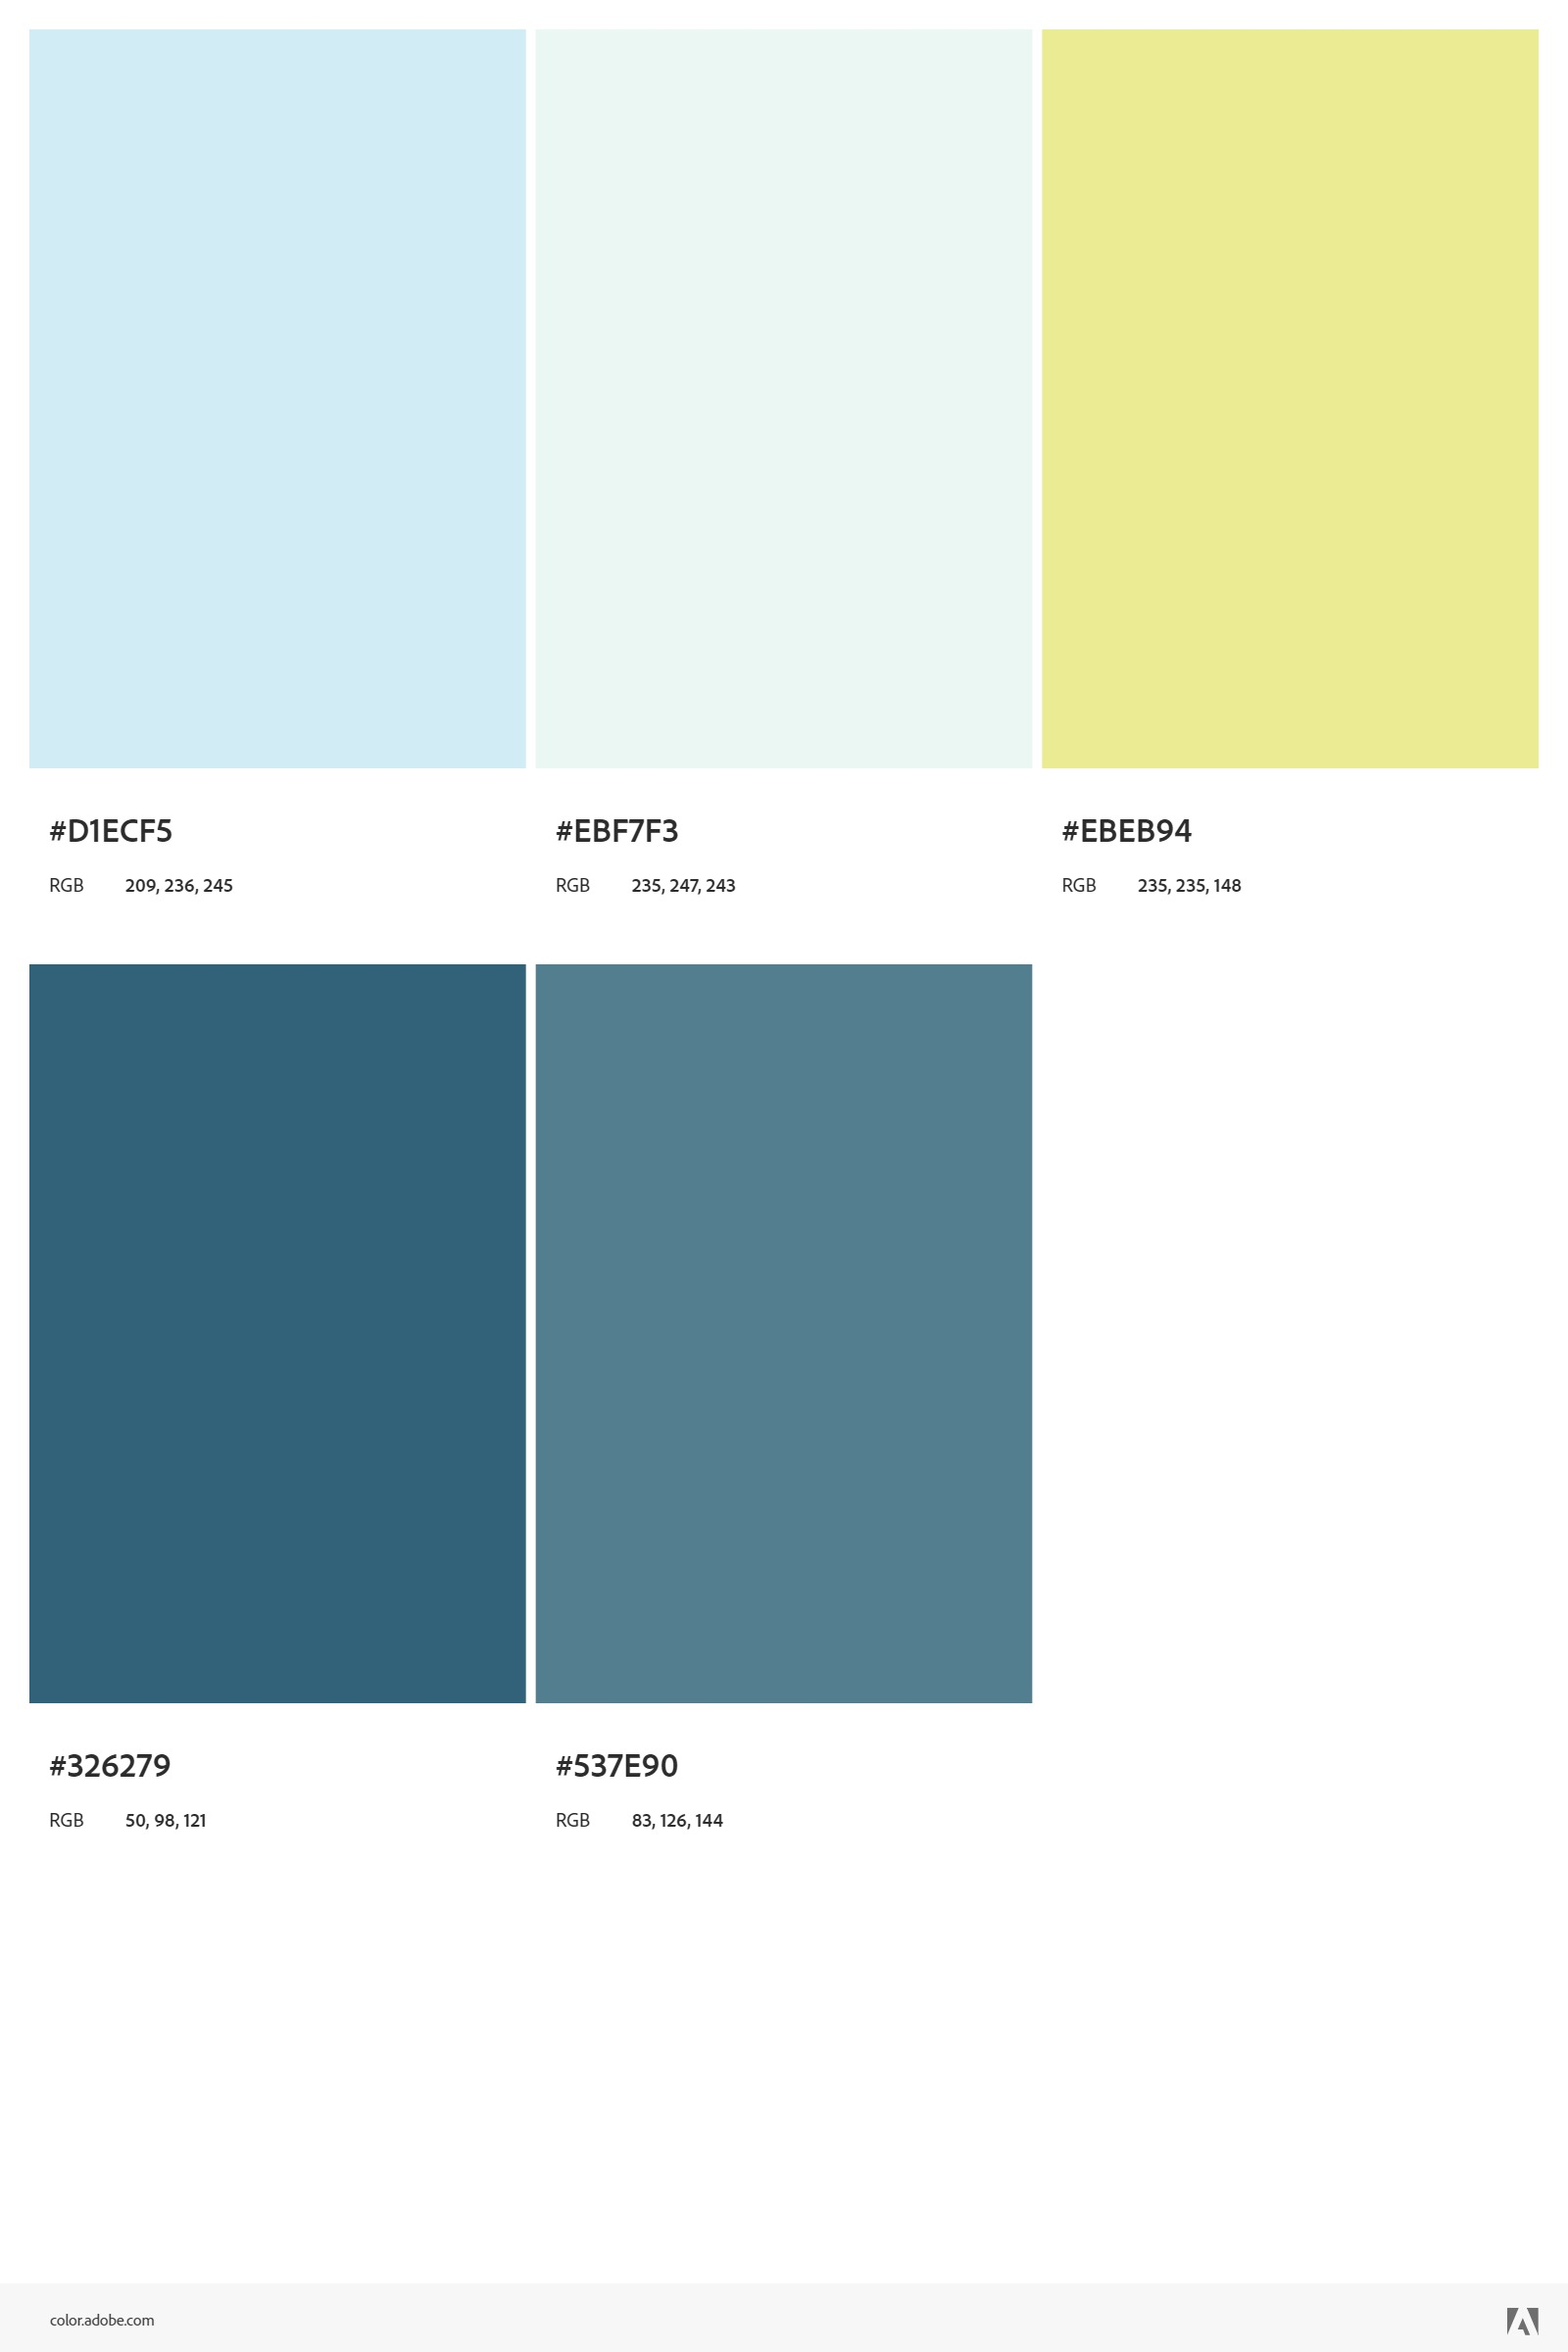
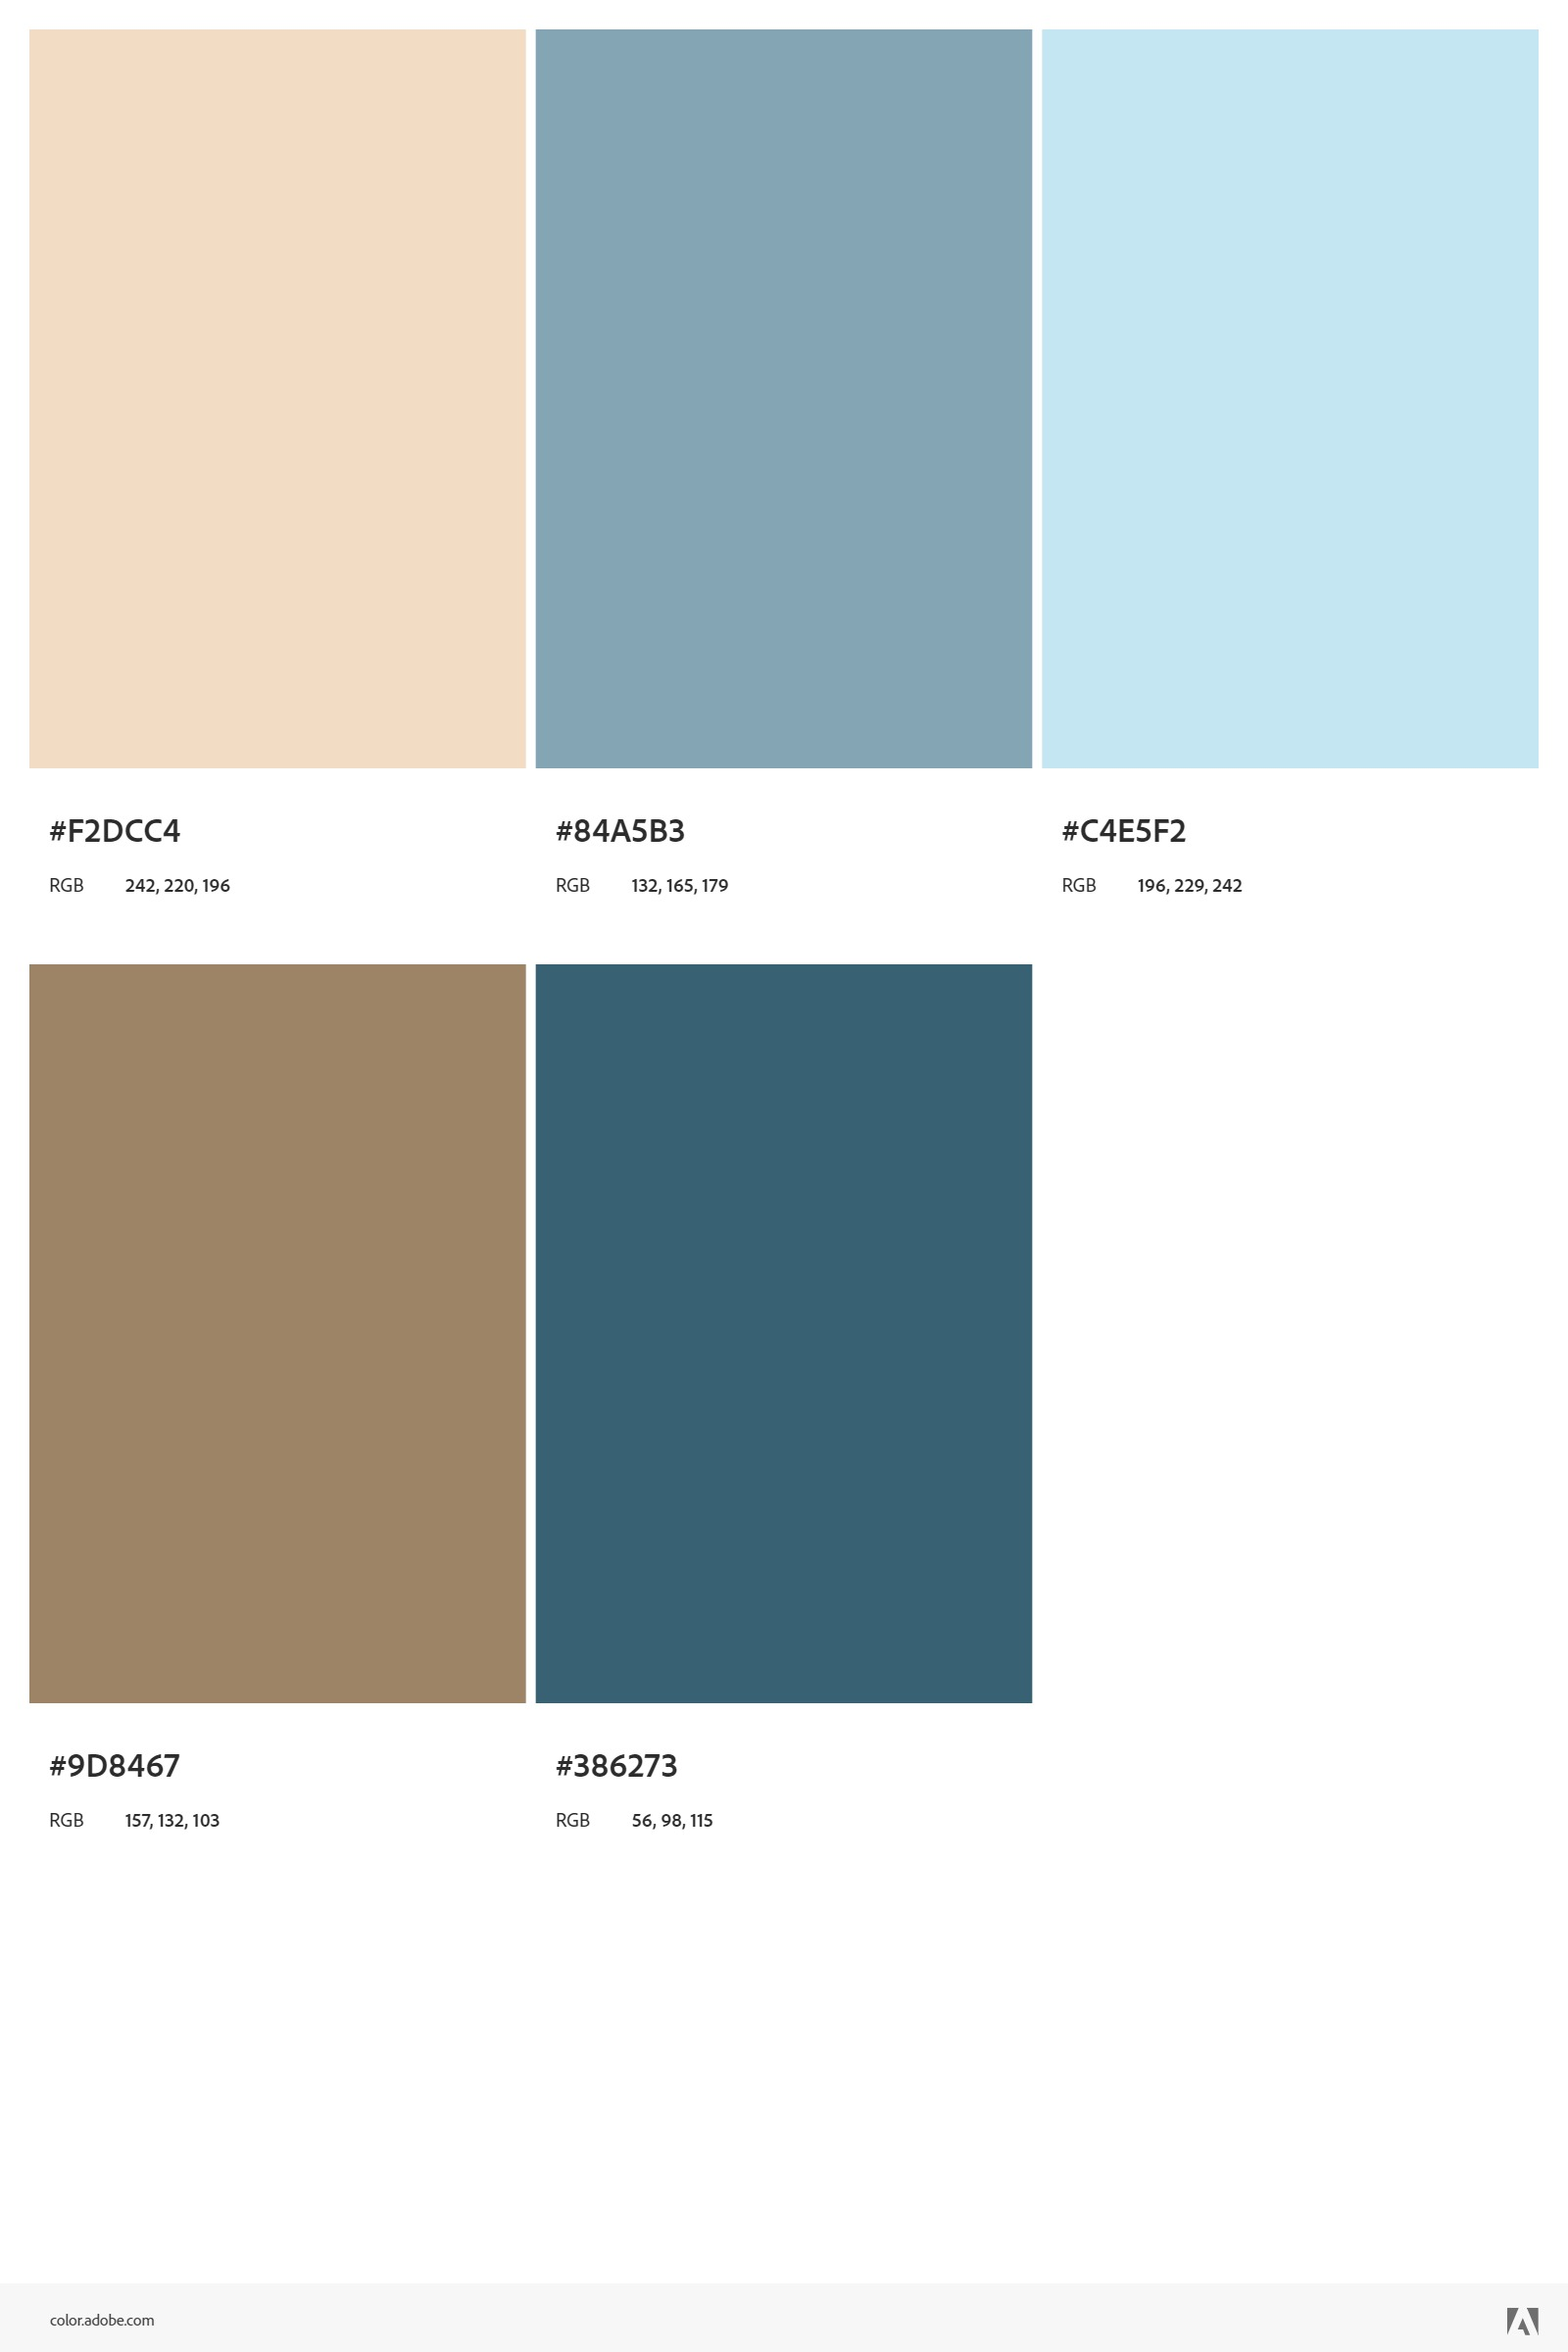
charte graphique

diff --git a/Branche fonctionnelle/Readme.md b/Branche fonctionnelle/Readme.md
@@ -1,58 +1,87 @@
 # Validation Branche fonctionnelle
-## Travaille a faire :
-- User storie 
-- creation charte graphique de presentation  
--  Appliquer la charte graphique dans le theme de presentation 
-- Appliquer  la charte graphique dans la presentation
+
+## Travail à Faire :
+- User Stories
+- Création de la charte graphique de présentation
+- Appliquer la charte graphique dans le thème de la présentation
+- Appliquer la charte graphique dans la présentation
 
 # Rapport branche fonctionnelle
 [branche fonctionnelle](https://docs.google.com/document/d/1ChcaLO0gb-rc4wh6fTCoORnpx5wyOrUke7OMOUXfbbQ/edit?usp=sharing)
 
-
 # La Charte Graphique
-![Color](img/AdobeColor-CNMH.jpeg)
+
+## Palette de Couleurs du Logo
+
+### Couleurs Principales
+- Couleur Principale : `#C4E5F2`
+
+![Couleur](img/Ref-C4E5F2.png)
+
+### Couleurs Additionnelles (Basées sur la Règle de la Roue Chromatique)
+- Couleur Complémentaire :
+    - `#84A5B3`
+
+    ![Couleur](img/Ref-84A5B3.png)
+
+    - `#F2DCC4`
+
+    ![Couleur](img/Ref-F2DCC4.png)
+
+    - `#386273`
+
+    ![Couleur](img/Ref-386273.png)
+
+    - `#9D8467`
+
+    ![Couleur](img/Ref-9D8467.png)
+
+### Règle de la Roue Chromatique
+La palette de couleurs est générée en utilisant la règle Complémentaire de la Roue Chromatique.
+
+## Référence
+Utilisez la [Roue Chromatique](https://www.sessions.edu/color-calculator/) pour explorer les harmonies de couleurs.
+
+## Note
+Cette palette est conçue pour compléter les couleurs trouvées dans notre logo. N'hésitez pas à ajuster et expérimenter avec ces couleurs pour créer une présentation visuellement attrayante.
+
+## Palette de Couleurs
+
+![Couleur](img/AdobeColor-CNMH.jpeg)
+
 ## Logo
 
-### solicode
-![Color](img/solicode-logo.png)
+### Solicode
+![Couleur](img/solicode-logo.png)
+
 ### CNMH
-![Color](img/cnmh-logo.jpg)
+![Couleur](img/cnmh-logo.jpg)
+
 ### OFPPT
-![Color](img/ofppt-logo.png)
-## Font-Family
-- **Poppins**
+![Couleur](img/ofppt-logo.png)
+
+# Branding du Centre Médical
+
+## Famille de Polices
+- **Montserrat**
+- **Open Sans**
 - Sans-Serif
 
-## Couleurs
-![Color](img/Ref-D1ECF5.png)
+## Référence
+- [Police Montserrat](https://fonts.google.com/specimen/Montserrat)
+- [Police Open Sans](https://fonts.google.com/specimen/Open+Sans)
 
-- `#D1ECF5`
-
-![Color](img/Ref-EBF7F3.png)
-
-- `#EBF7F3`
-
-![Color](img/Ref-EBEB94.png)
-
-- `#EBEB94`
-
-![Color](img/Ref-326279.png)
-
-- `#326279`
-
-![Color](img/Ref-537E90.png)
-
-- `#537E90`
+## Note
+Ces familles de polices, telles que Montserrat et Open Sans, sont recommandées pour le branding d'un centre médical. Elles offrent un aspect propre et professionnel, améliorant la lisibilité et transmettant un sentiment de confiance et de fiabilité.
 
 ### Références
-Les références de couleurs peuvent être consultées sur [Adobe Color Themes](https://color.adobe.com/fr/boom-color-theme-9a19b0ba-edea-435a-8b8c-62316972504c/).
+Les références de couleurs peuvent être consultées sur [Adobe Color Themes](https://color.adobe.com/fr/My-Color-Theme-color-theme-5643d048-9e05-40a2-a5d2-5295a42aa663/).
 
 ### Note
 Le fond de la présentation doit rester blanc en raison du diagramme UML.
 
-# Theme Presentation
+# Thème de la Présentation
 
-[Theme presentation](https://docs.google.com/presentation/d/1iipkAvkR68LQkmU8Gks_kWtWpdhh0VEgranMk800MWM/edit?usp=sharing)
+[Thème de la présentation](https://docs.google.com/presentation/d/1iipkAvkR68LQkmU8Gks_kWtWpdhh0VEgranMk800MWM/edit?usp=sharing)
 
-## Logo image
-[All used logos](https://docs.google.com/document/d/1WfMe91BvddGaOmxz0usR-dpOietgO5iYy1aYWl-gw2s/edit?usp=sharing)
+![Exemple](img/Exemple.png)
